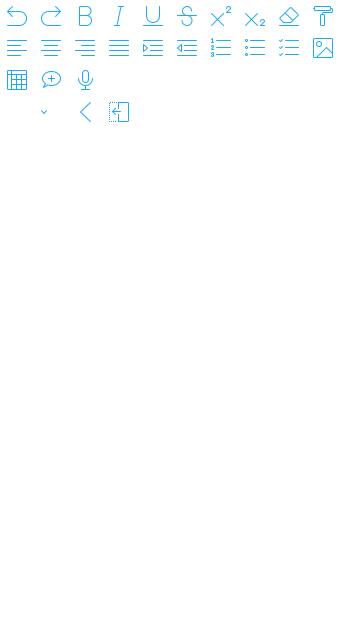
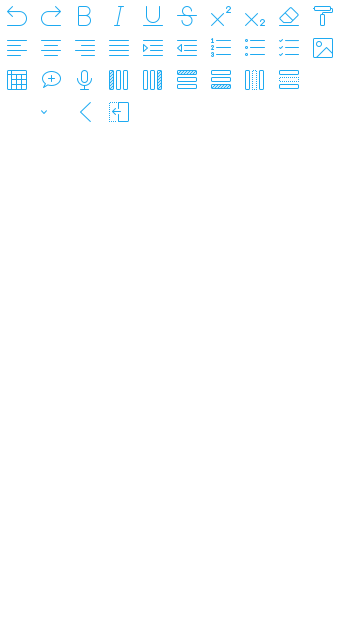
Add table buttons and titles for buttons

diff --git a/mockup/editor-business.html b/mockup/editor-business.html
@@ -24,7 +24,7 @@
 <div id="nav">
   <div class="logo switch-esa"></div>
   <div class="btn-wrapper">
-    <div class="btn-group"><span class="icon-undo btn"></span><span class="icon-redo btn"></span></div><div class="btn-group"><span class="btn listbox">10</span><span class="icon-bold btn"></span><span class="icon-italic btn"></span><span class="icon-underline btn"></span><span class="icon-strike btn"></span><span class="icon-superscript btn"></span><span class="icon-subscript btn"></span><span class="btn listbox"><span class="font-color">A</span></span><span class="icon-clear btn"></span><span class="icon-brush btn"></span></div><div class="btn-group"><span class="icon-align-left btn"></span><span class="icon-align-center btn"></span><span class="icon-align-right btn"></span><span class="icon-align-justify btn"></span><span class="icon-indent-right btn"></span><span class="icon-indent-left btn"></span></div><div class="btn-group"><span class="icon-list-number btn"></span><span class="icon-list-bullet btn"></span><span class="icon-list-check btn"></span></div><div class="btn-group"><span class="icon-image btn"></span><span class="icon-table btn"></span><span class="icon-comment-add btn"></span><span class="icon-microphone btn"></span></div></div>
+    <div class="btn-group"><span class="icon-undo btn" title="恢复"></span><span class="icon-redo btn" title="重做"></span></div><div class="btn-group"><span class="btn listbox" title="字体大小">10</span><span class="btn listbox" title="字体颜色"><span class="font-color">A</span></span><span class="icon-bold btn" title="粗体"></span><span class="icon-italic btn" title="斜体"></span><span class="icon-underline btn" title="下划线"></span><span class="icon-strike btn" title="删除线"></span><span class="icon-superscript btn" title="上标"></span><span class="icon-subscript btn" title="下标"></span><span class="icon-clear btn" title="清除样式"></span><span class="icon-brush btn" title="格式刷"></span></div><div class="btn-group"><span class="icon-align-left btn" title="左对齐"></span><span class="icon-align-center btn" title="居中"></span><span class="icon-align-right btn" title="右对齐"></span><span class="icon-align-justify btn" title="两端对齐"></span><span class="icon-indent-right btn" title="增加缩进"></span><span class="icon-indent-left btn" title="减少缩进"></span></div><div class="btn-group"><span class="icon-list-number btn" title="数字列表"></span><span class="icon-list-bullet btn" title="圆点列表"></span><span class="icon-list-check btn" title="勾选列表"></span></div><div class="btn-group"><span class="icon-image btn" title="插入图片"></span><span class="icon-table btn" title="插入表格"></span><span class="icon-comment-add btn" title="增加评论"></span><span class="icon-microphone btn" title="插入语音"></span></div><div class="btn-group"><span class="icon-add-col-left btn" title="在左侧插入列"></span><span class="icon-add-col-right btn" title="在右侧插入列"></span><span class="icon-add-row-above btn" title="在上方插入行"></span><span class="icon-add-row-below btn" title="在下方插入行"></span><span class="icon-remove-col btn" title="删除当前列"></span><span class="icon-remove-row btn" title="删除当前行"></span></div></div>
   </div>
 </div>
 <span class="btn btn-back icon-back" id="btn-back"></span> <span class="btn btn-screen-full icon-screen-full" id="col-toggle"></span>

diff --git a/mockup/styles/icons.css b/mockup/styles/icons.css
@@ -205,6 +205,30 @@
 	background-position: -68px -64px;
 }
 
+.icon-add-col-left {
+	background-position: -102px -64px;
+}
+
+.icon-add-col-right {
+	background-position: -136px -64px;
+}
+
+.icon-add-row-above {
+	background-position: -170px -64px;
+}
+
+.icon-add-row-below {
+	background-position: -204px -64px;
+}
+
+.icon-remove-col {
+	background-position: -238px -64px;
+}
+
+.icon-remove-row {
+	background-position: -272px -64px;
+}
+
 .icon-back {
 	background-position: -68px -96px;
 }
@@ -216,5 +240,6 @@
 .icon-screen-split {
 	background-position: -136px -96px;
 }
+
 
 

diff --git a/mockup/js/editor.js b/mockup/js/editor.js
@@ -1,7 +1,10 @@
 // JavaScript Document
 $(document).ready(function(e) {
-	$(".btn").click(function() {
-		$(this).toggleClass("on");
+	$(".btn").mousedown(function() {
+		$(this).addClass("on");
+	});
+	$(".btn").mouseup(function() {
+		$(this).removeClass("on");
 	});
 	$(".comment-group").click(function() {
 		$(".comment-group").removeClass("comment-group-actived");
